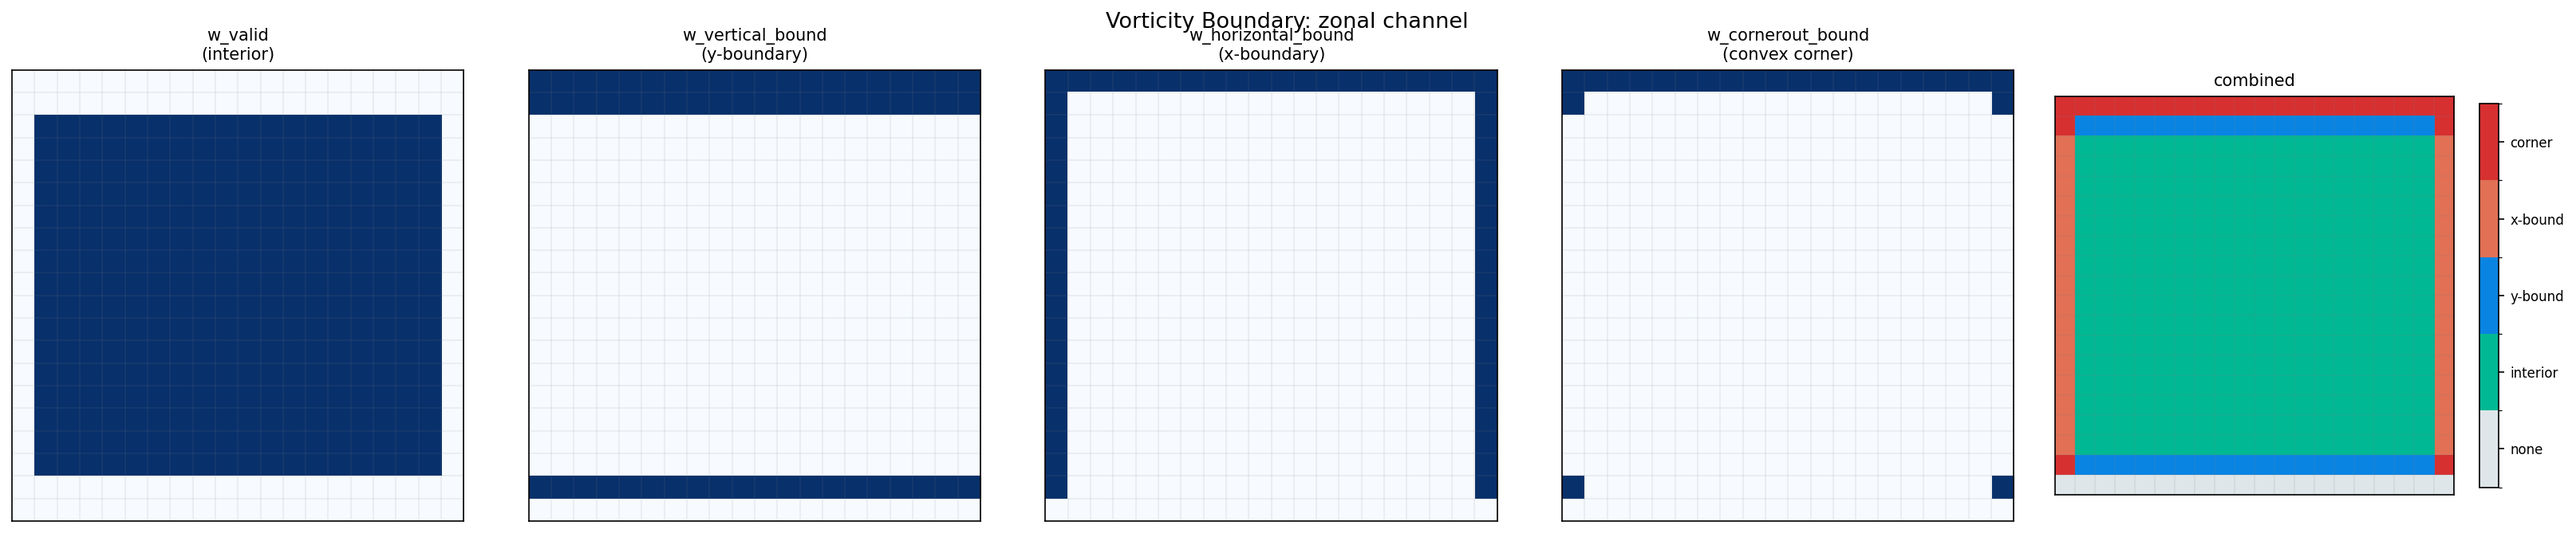
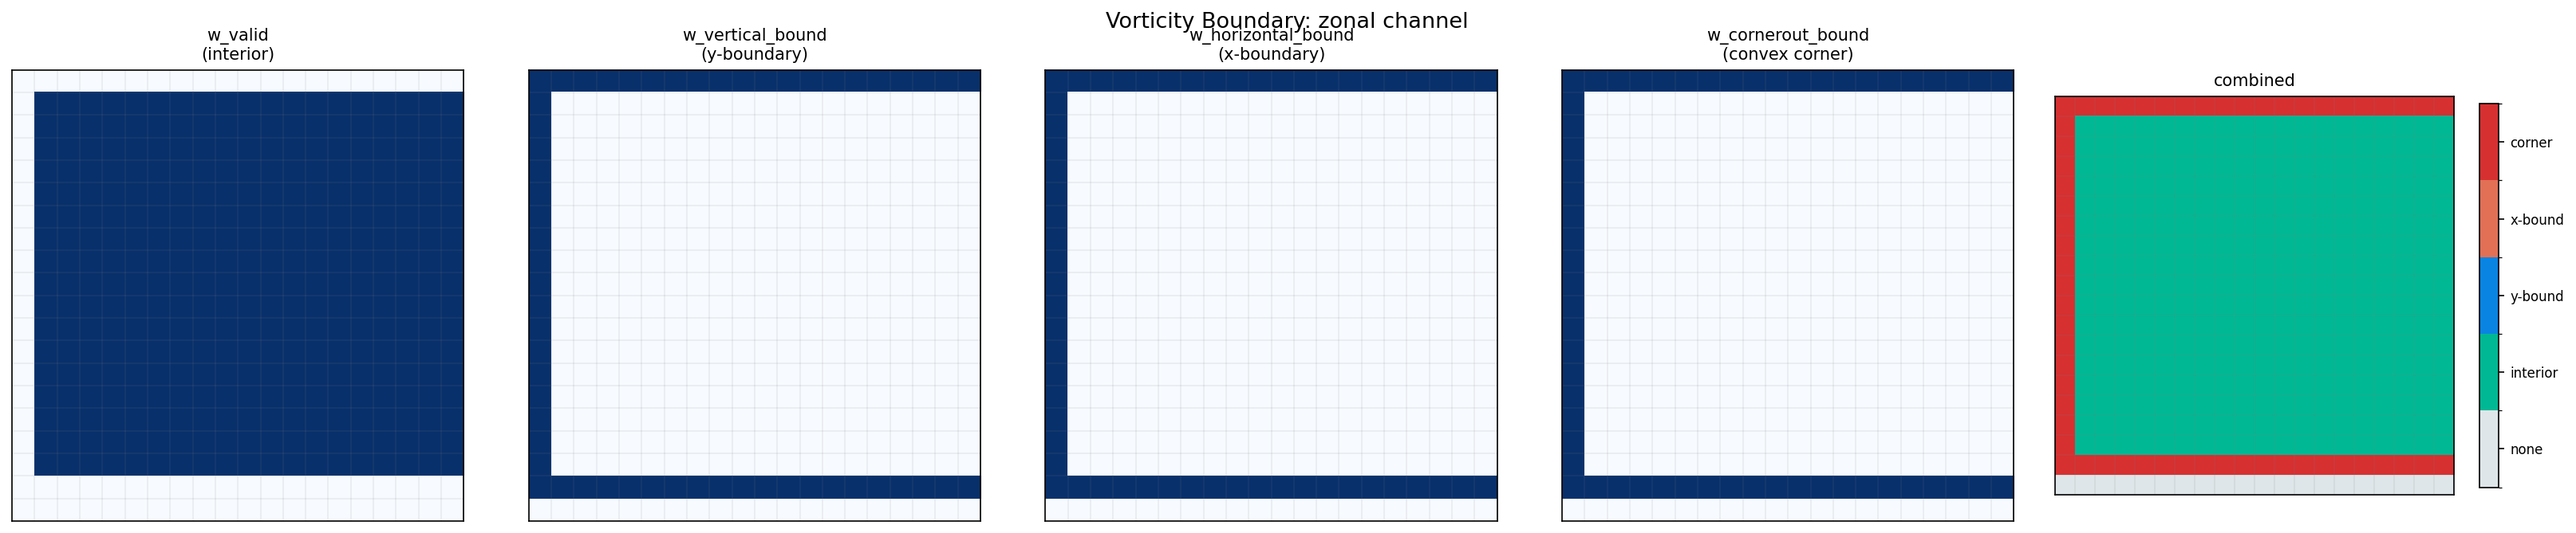
fix(masks): correct vorticity boundary adjacency at w-points
The vorticity boundary classification checked the wrong velocity faces.
For w[j,i] at the SW corner of cell (j,i), the 4 adjacent faces are
u[j,i], u[j,i-1], v[j,i], v[j-1,i]. The old code incorrectly used
u[j+1,i] and v[j,i+1] (shifted in the wrong axis).

Regenerated all documentation figures with the corrected computation.

diff --git a/finitevolx/_src/grid/cgrid_mask.py b/finitevolx/_src/grid/cgrid_mask.py
@@ -484,18 +484,17 @@ class ArakawaCGridMask(eqx.Module):
         psi_np = _pool2d_bool(hf, ky=2, kx=2, threshold=7.0 / 8.0)
 
         # ── vorticity boundary classification ─────────────────────────────
-        # For w[j, i] (SW corner of h[j, i]):
-        #   y-adjacent u-faces: u[j, i] and u[j+1, i]  (shift u up by one)
-        #   x-adjacent v-faces: v[j, i] and v[j, i+1]  (shift v left by one)
-        u_up = np.pad(u_np[1:, :], ((0, 1), (0, 0)))  # u[j+1, i], pad bottom
-        v_left = np.pad(v_np[:, 1:], ((0, 0), (0, 1)))  # v[j, i+1], pad right
+        # For w[j, i] at SW corner of h[j, i], the 4 adjacent velocity faces
+        # are u[j,i] (east), u[j,i-1] (west), v[j,i] (north), v[j-1,i] (south).
+        u_west = np.pad(u_np[:, :-1], ((0, 0), (1, 0)))  # u[j, i-1]
+        v_south = np.pad(v_np[:-1, :], ((1, 0), (0, 0)))  # v[j-1, i]
 
-        # vertical boundary: w wet AND at least one y-adjacent u-face dry
-        w_vb = w_np & (~u_np | ~u_up)
-        # horizontal boundary: w wet AND at least one x-adjacent v-face dry
-        w_hb = w_np & (~v_np | ~v_left)
+        # vertical boundary: wall along y → v-face (north or south) dry
+        w_vb = w_np & (~v_np | ~v_south)
+        # horizontal boundary: wall along x → u-face (east or west) dry
+        w_hb = w_np & (~u_np | ~u_west)
         w_co = w_vb & w_hb  # corner-out: both
-        w_va = w_np & u_np & u_up & v_np & v_left  # valid interior
+        w_va = w_np & u_np & u_west & v_np & v_south  # valid interior
 
         # ── irregular psi boundary indices ────────────────────────────────
         # Dry psi cells in [1:-1, 1:-1] with >=1 wet psi cell in 3x3 hood.
